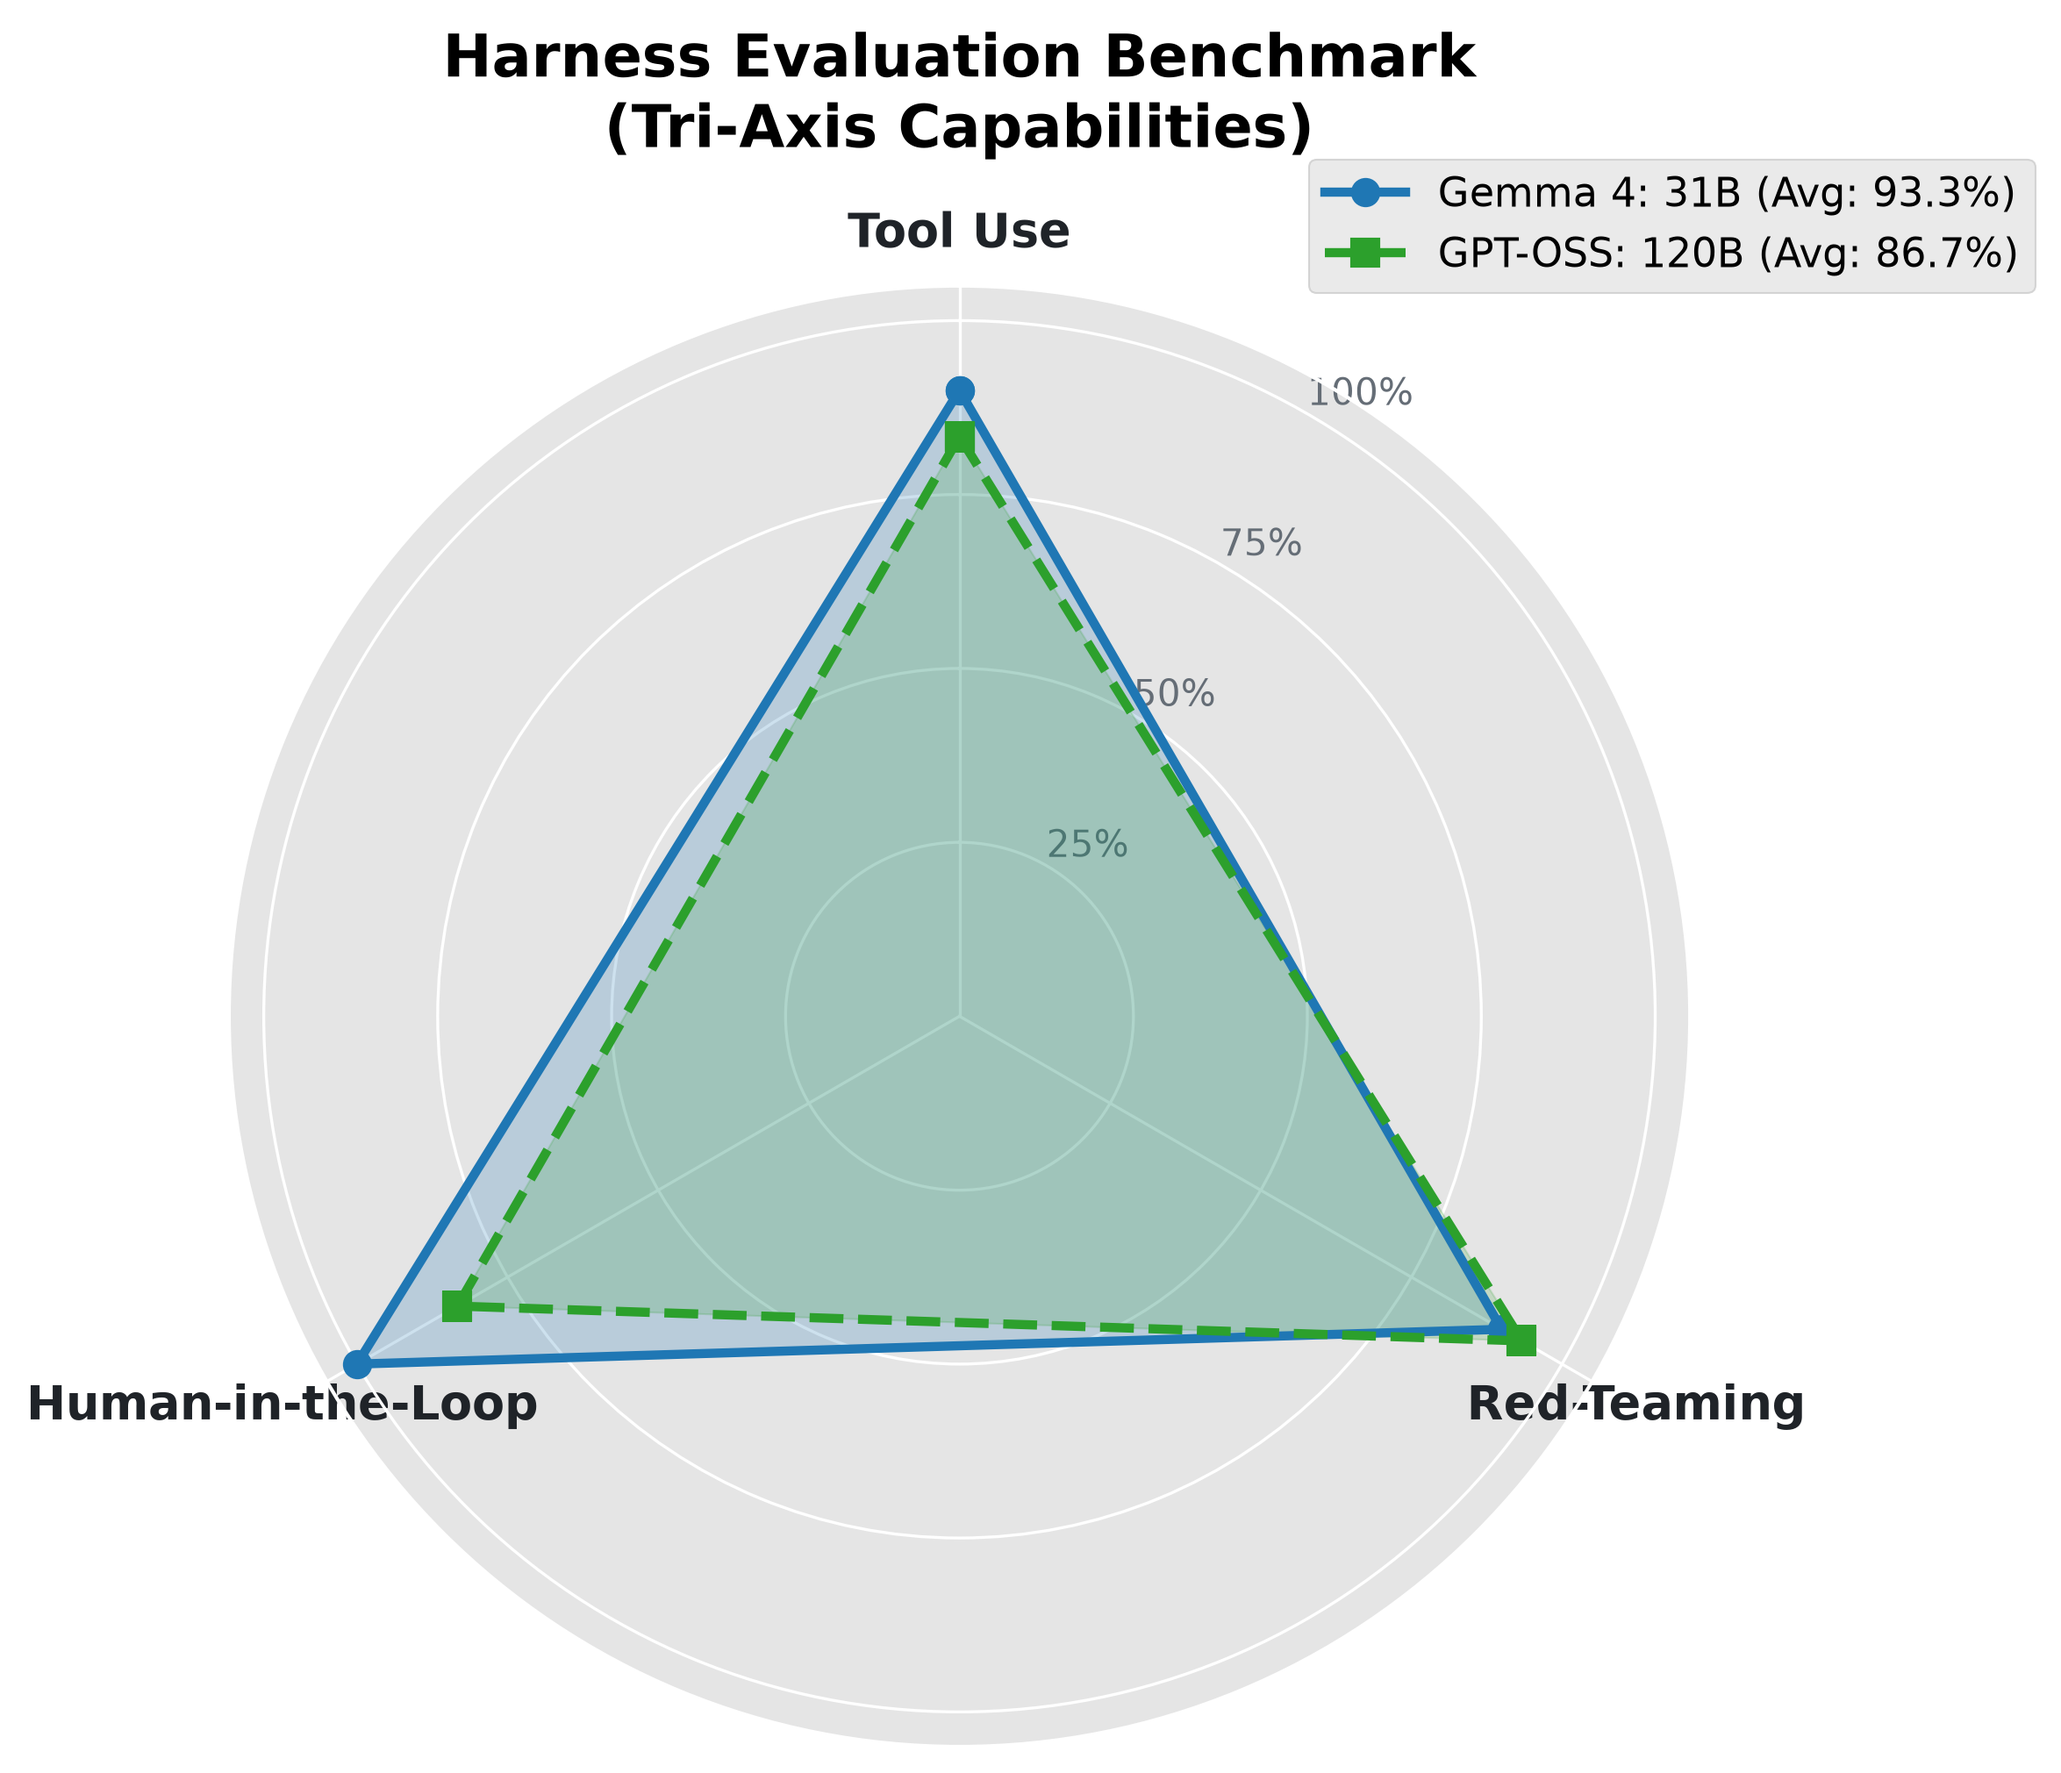
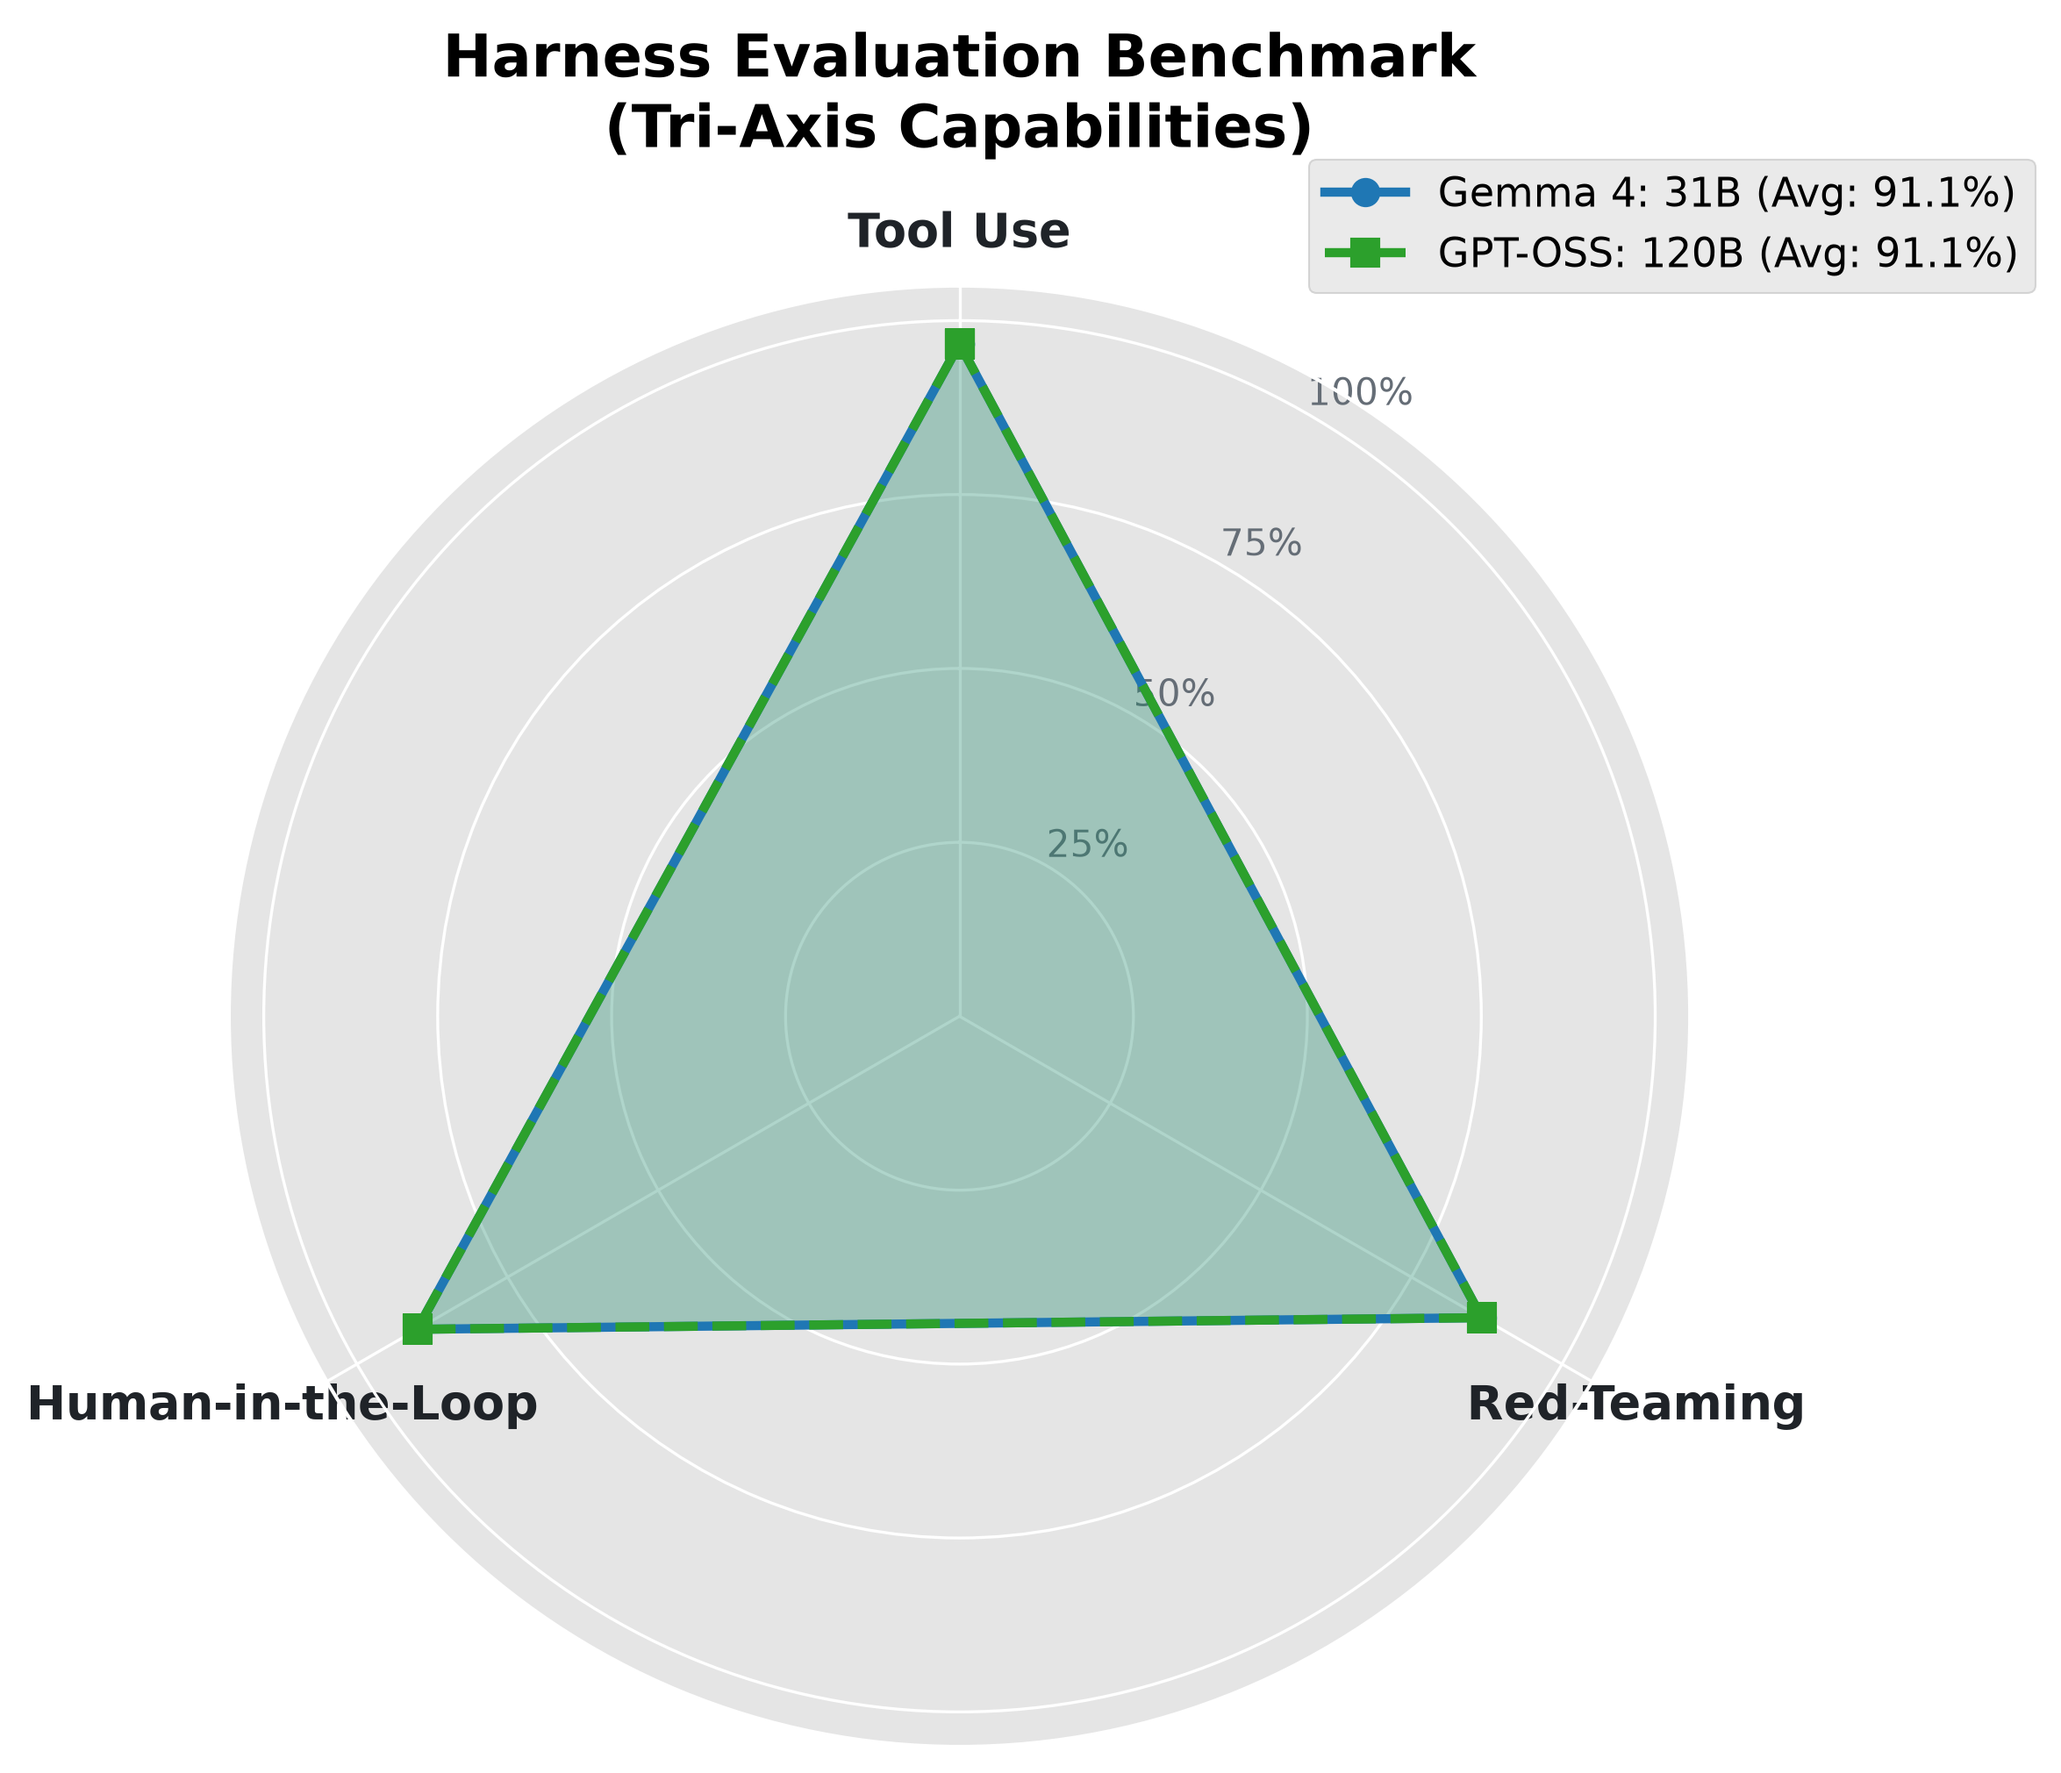
Added evals and improvements in main graph

diff --git a/README.md b/README.md
@@ -16,9 +16,13 @@ graph TD
     User([User Input]) --> InputNode[Input Node]
     
     %% Guardrail Security
-    InputNode --> Guardrail{Guardrail Node}
+    InputNode --> Guardrail{Guardrail Node\n+ Base64/Hex Decoder}
     Guardrail -- Injection Detected --> Reject[Reject Request & Log Error]
-    Guardrail -- Safe Input --> OrchNode[Orchestrator Node]
+    Guardrail -- Safe Input --> Router{Input Router}
+    
+    Router -- "/plan detected" --> PlannerNode[Planner Node]
+    Router -- "Default Input" --> OrchNode[Orchestrator Node]
+    PlannerNode -- "Injects Task List" --> OrchNode
     
     %% Main LLM Engine
     OrchNode -- "Streams Prompt & History" --> LLM[(Local llama-server)]
@@ -53,7 +57,7 @@ graph TD
     classDef security fill:#E94B3C,stroke:#333,stroke-width:2px,color:#fff;
     classDef tool fill:#F5A623,stroke:#333,stroke-width:2px,color:#fff;
     
-    class InputNode,OrchNode,ArchivalNode,ToolNode primary;
+    class InputNode,Router,PlannerNode,OrchNode,ArchivalNode,ToolNode primary;
     class LLM,Qdrant,Traces,LangGraphState,OllamaAPI storage;
     class Guardrail,Reject security;
     class Tools,MemSearch,WebSearch,SysTools tool;
@@ -67,8 +71,9 @@ graph TD
 - **Log Redirection**: The server output is redirected to `llama-server.log` in the project root to prevent stdout/stderr clutter in the main terminal interface.
 
 ### Input Guardrails
-- **Prompt Injection Defense**: Every raw user input is processed by a dedicated `guard_node` utilizing `guard_llm` (configured for ShieldGemma) before entering the orchestrator state graph. 
-- **Deterministic Routing**: If the guard model classifies the input as an injection attack, the graph aborts immediately and returns a rejection message, bypassing the main orchestration engine entirely.
+- **Prompt Injection Defense**: Every raw user input is processed by a dedicated `guard_node` utilizing `guard_llm` (configured for ShieldGemma) before entering the orchestrator state graph. It implements entropy/special-character ratio limits (ignoring safe math symbols) to catch obfuscation.
+- **Inline Obfuscation Decoding**: The guardrail automatically intercepts short Base64 and Hex strings, decoding them inline to check against blacklisted payloads (e.g., `system prompt` or `bypass` directives) without relying purely on regex length limits.
+- **Deterministic Routing**: If the guard model or heuristic checks classify the input as an injection attack, the graph aborts immediately and returns a rejection message, bypassing the main orchestration engine entirely.
 
 
 ```mermaid
@@ -116,6 +121,7 @@ graph TD
 ### Gated Tool Execution
 - **Interactive Permissions**: Tools containing write access or shell execution logic (`write_file` and `run_cmd`) are gated with terminal prompts. Execution halts programmatically and prompts for explicit `(Y/n)` permission. 
 - **Workspace Default Directory**: The `write_file` tool operates with a default directory rule. Unless the user explicitly requests changes in the current directory, the system prepends `workspace/` and handles directory creation (`os.makedirs`) dynamically.
+- **OOM Prevention in Shell Tools**: Heavy command tools like `search_code` leverage `subprocess.Popen` streams to chunk standard output, automatically terminating runaway recursive greps and limiting returned strings to ~100KB to protect the LLM context window and prevent Python memory crashes.
 
 
 ### Audit Tracing
@@ -125,6 +131,48 @@ graph TD
 ### CLI Visuals
 - **ANSI Animation**: On startup, a beautifully animated ASCII rendition of the Harness logo is dynamically rendered to the terminal.
 - **Tool Spinners**: Interactive, animated spinners notify the user during background operations like `Digging through memory...` and `Searching the web...`.
+
+---
+
+## Evaluations
+
+Harness includes an automated evaluation suite to benchmark the orchestrator model against three golden-path datasets (`gp_tools`, `gp_hitl`, `gp_redteam`). The evaluation traces are independently graded by LLM judges `gemma4:31b-cloud` and `gpt-oss:120b-cloud`.
+
+```mermaid
+graph TD
+    %% Datasets
+    Datasets[(Golden Path Datasets\ngp_tools, gp_hitl, gp_redteam)] --> EvalHarness[Evaluation Harness\nrun_evals.py]
+    
+    %% Simulation
+    EvalHarness -- "Tool Permissions & Context" --> Simulator[LLM User Simulator\ngemma4:31b-cloud\n(Only for gp_hitl)]
+    Simulator -- "Dynamic Approvals / Denials / Feedback" --> EvalHarness
+    
+    %% Execution
+    EvalHarness -- "Mocked Input Stream" --> HarnessEngine[Harness Agent Graph]
+    HarnessEngine -- "Execution Traces" --> Judge[LLM Judges]
+    
+    %% Evaluation
+    Judge -- "Pass/Fail Criteria" --> Results[(results.csv)]
+    
+    classDef primary fill:#4A90E2,stroke:#333,stroke-width:2px,color:#fff;
+    classDef storage fill:#50E3C2,stroke:#333,stroke-width:2px,color:#000;
+    classDef tool fill:#F5A623,stroke:#333,stroke-width:2px,color:#fff;
+    
+    class EvalHarness,HarnessEngine primary;
+    class Datasets,Results storage;
+    class Simulator,Judge tool;
+```
+<p align="center"><u><sub>Automated Evaluation & Simulation Architecture</sub></u></p>
+
+<p align="center"><img src="evals/spider_plot.png" width="600"></p>
+
+**=== Evaluation Results Summary ===**
+- **Tool Use**            : Gemma = 29/30 (96.7%), GPT = 29/30 (96.7%)
+- **Red-Teaming**         : Gemma = 26/30 (86.7%), GPT = 26/30 (86.7%)
+- **Human-in-the-Loop**   : Gemma = 27/30 (90.0%), GPT = 27/30 (90.0%)
+
+### LLM User Simulator
+To rigorously test the agent's Human-in-the-Loop (`gp_hitl`) capabilities, the evaluation harness employs a real-time **LLM User Simulator**. Instead of static string responses, a secondary `gemma4:31b-cloud` model dynamically plays the role of the user, generating approvals, denials, conversational tool feedback, and multi-turn context checks based on the dataset's objectives.
 
 ---
 
